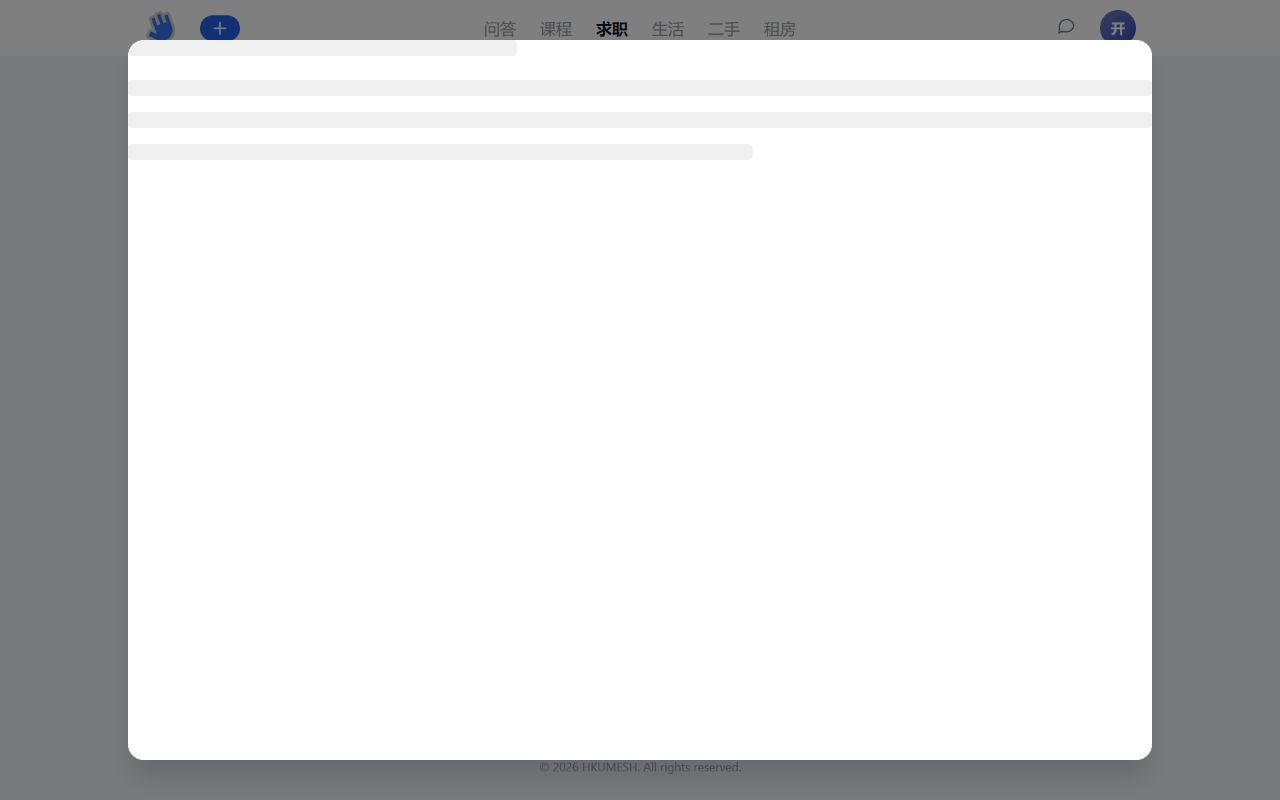
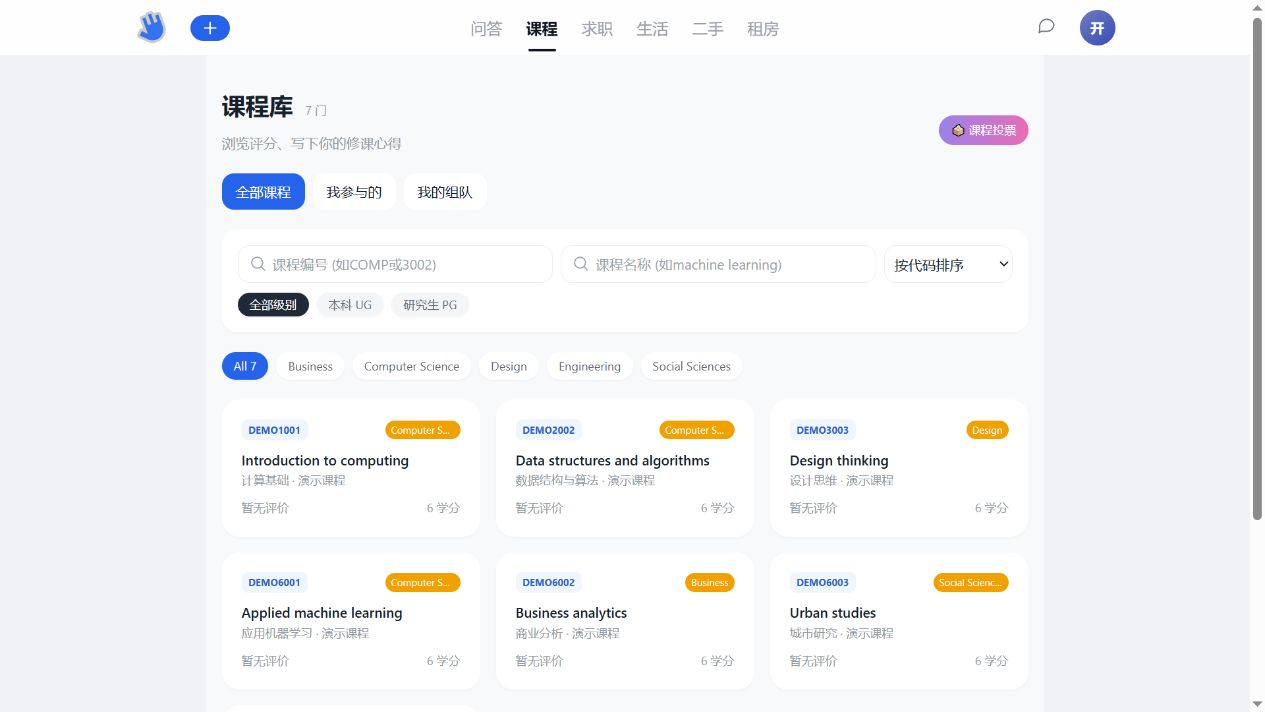
docs: replace loading screenshot with course library preview

diff --git a/docs/assets.md b/docs/assets.md
@@ -9,6 +9,6 @@
 | `hkuer/public/guide/step1.png`–`step4.png` | 参考网站同名静态图片，用于添加到主屏幕操作示意 |
 | `docs/images/community-preview.png` | 本项目本地测试页面截图，内容为合成样例 |
 
-第三方图形和品牌标识不因出现在本仓库而获得新的授权。本次仓库以私有方式保存；对外发布或再分发前，应核对资源许可，或替换为自己的品牌与素材。
+仓库公开展示项目代码与演示页面。第三方图形和品牌标识的权利仍归原权利人所有；仓库公开不代表授予这些素材的使用许可。再分发或商业使用前，应核对资源许可，或替换为自己的品牌与素材。
 
 没有上传参考账号凭据、私信、个人资料导出或参考网站业务数据库。

diff --git a/README.md b/README.md
@@ -6,7 +6,7 @@
 
 > 当前定位为开发与演示项目。包含可运行的前后端、数据库迁移和测试；生产云服务、支付、真实课程数据及全部页面状态验收仍需单独完成。
 
-![求职详情页面预览](docs/images/community-preview.png)
+![课程库页面预览：课程筛选与课程卡片](docs/images/community-preview.png)
 
 ## 功能
 
@@ -75,7 +75,7 @@ git clone https://github.com/jerry021211/hkuer-community.git
 cd hkuer-community
 ```
 
-私有仓库需要对应 GitHub 账号权限。下面所有脚本均从仓库根目录运行。
+仓库公开可访问。下面所有脚本均从仓库根目录运行。
 
 ### 2. 初始化私有配置与数据库
 
